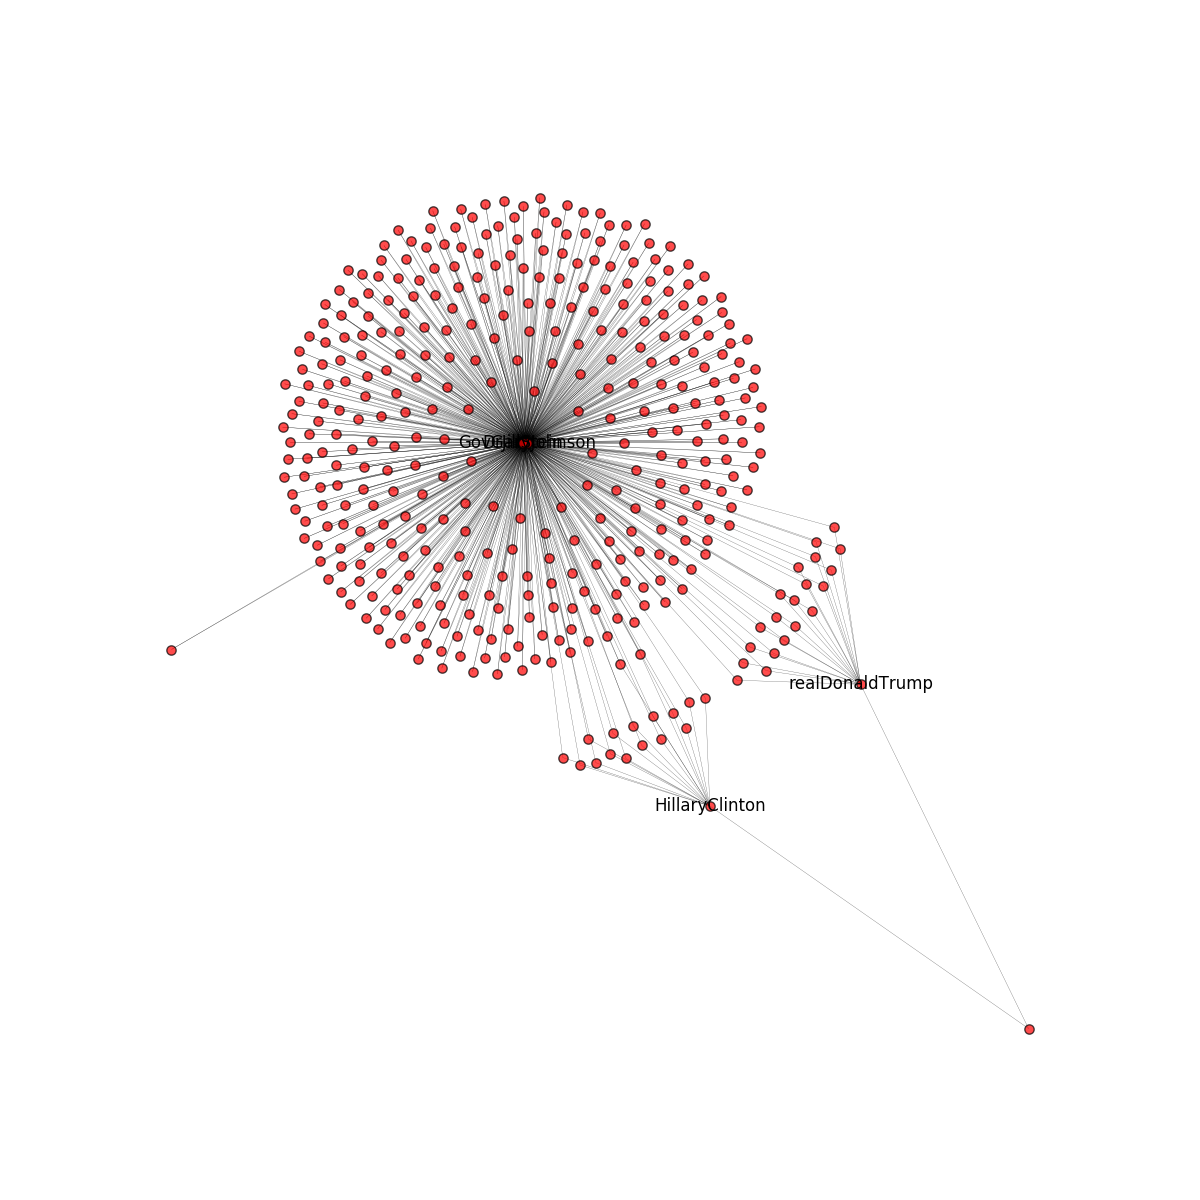
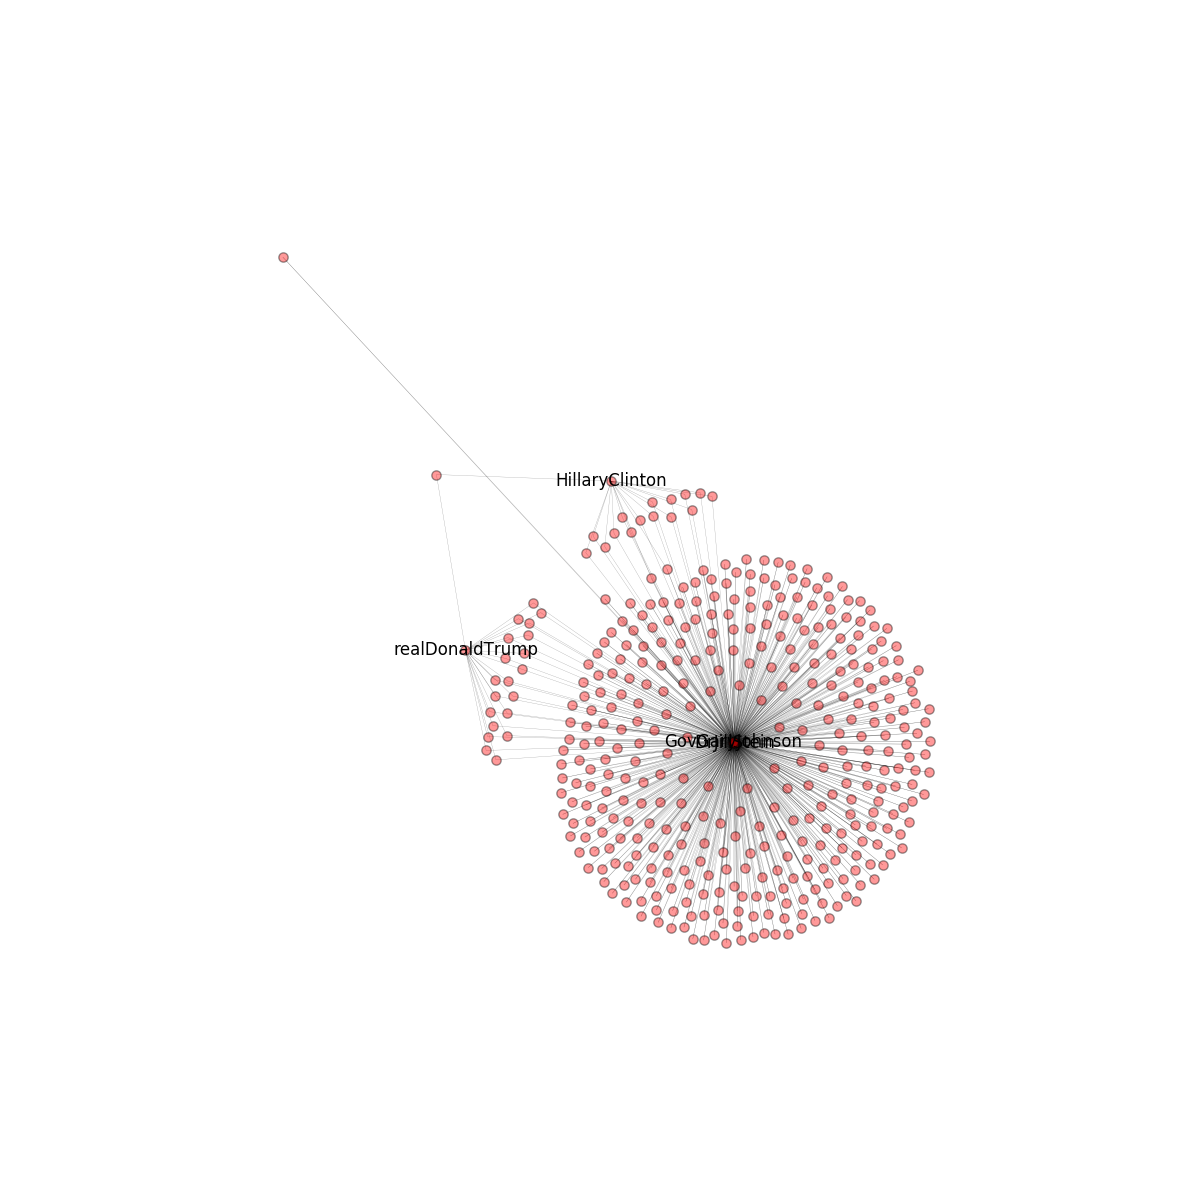
Committed Code

Changed region(s): [[0.2158, 0.1542, 0.8017, 0.8017], [0.8325, 0.8325, 0.8633, 0.8633]]

diff --git a/a0/a0.py b/a0/a0.py
@@ -40,10 +40,11 @@ import configparser
 from TwitterAPI import TwitterAPI
 
 
-consumer_key = ''
-consumer_secret = ''
-access_token = ''
-access_token_secret = ''
+consumer_key = 'BB5Ze129wF8voy9UzQ8ipzCS8'
+consumer_secret = 'BZUq9z7n4pyvjBVvdg9wHWNHZ9b2VTLWNgTvP3DrgJDS5D24iU'
+access_token = '1369262468-0tdd8G1DBN22ivUDCMJNKbVUXjNxmlpaCQ5PyCv'
+access_token_secret='AdiHB3g9IqEynclYq2of1gAxHB73H8bSblrnTWqlf5gV3'
+
 
 
 # This method is done for you. Make sure to put your credentials in the file twitter.cfg.
@@ -51,14 +52,8 @@ def get_twitter():
     """ Construct an instance of TwitterAPI using the tokens you entered above.
     Returns:
       An instance of TwitterAPI.
-    ""
-    TwitterAPI=Twitter(
-        auth=OAuth(access_token, access_token_secret, consumer_key,consumer_secret )
-        )"""
-    config = configparser.ConfigParser()
-    config.read("twitter.cfg")
-    twitterapi = TwitterAPI( config.get('twitter', 'consumer_key'),  config.get('twitter', 'consumer_secret'), 
-                          config.get('twitter', 'access_token'),  config.get('twitter', 'access_token_secret')) 
+    """
+    twitterapi = TwitterAPI( consumer_key,  consumer_secret, access_token,access_token_secret)
 
     return twitterapi;
 
@@ -163,16 +158,14 @@ def get_friends(twitter, screen_name):
     params={'screen_name':screen_name,'count':5000}
     request= robust_request(twitter,'friends/ids',params)
     response_data = request.json()
-    return response_data['ids']
+    list=response_data['ids']
+    return sorted(list)
     ###TODO
     pass
 
 
 def add_all_friends(twitter, users):
-    i=0
-    for u in users:
-       users[i]['friends']= get_friends(twitter,u['screen_name'])
-       i=i+1
+   
      
     """ Get the list of accounts each user follows.
     I.e., call the get_friends method for all 4 candidates.
@@ -191,6 +184,10 @@ def add_all_friends(twitter, users):
     >>> users[0]['friends'][:5]
     [695023, 1697081, 8381682, 10204352, 11669522]
     """
+    i=0
+    for u in users:
+       users[i]['friends']= get_friends(twitter,u['screen_name'])
+       i=i+1
     ###TODO
     pass
 
@@ -221,7 +218,7 @@ def count_friends(users):
         Counter documentation: https://docs.python.org/dev/library/collections.html#collections.Counter
 
     In this example, friend '2' is followed by three different users.
-    >>> c = count_friends([{'friends1': [1,2]}, {'friends2': [2,3]}, {'friends3': [2,3]}])
+    >>> c = count_friends([{'friends': [1,2]}, {'friends': [2,3]}, {'friends': [2,3]}])
     >>> c.most_common()
     [(2, 3), (3, 2), (1, 1)]
     
@@ -263,17 +260,18 @@ def friend_overlap(users):
     total=0
     for use in users:
         list1=use['friends']
-       
-        for j in range (i,4):
-            
-            list2=users[j]['friends']
-            totallist=(set(list1).intersection(set(list2)))
-            tuple=[use['screen_name'],users[j]['screen_name'],totallist.__len__()]
-            list3.append(tuple)
+        j=1
+        for user in users:
+            if(j>i):
+                list2=user['friends']
+                totallist=(set(list1).intersection(set(list2)))
+                tuple=(use['screen_name'],user['screen_name'],totallist.__len__())
+                list3.append(tuple)
+            j=j+1
         i=i+1
     ###TODO
-    sorted(list3,  key=lambda x: (x[2], x[0]),reverse = True)
-    return sorted(list3,  key=lambda x: (x[2], x[0]),reverse = True)
+    list3=sorted(list3,  key=lambda x: ( x[0],x[1]))
+    return sorted(list3,  key=lambda x: (x[2]),reverse = True)
     pass
 
 
@@ -298,26 +296,13 @@ def followed_by_hillary_and_donald(users, twitter):
     params={'user_id':common_friend}
     request= robust_request(twitter,'users/lookup',params)
     response_data=request.json()
-    return response_data[0]['name'];
+    return response_data[0]['screen_name'];
     ###TODO
     pass
 
 
 def create_graph(users, friend_counts):
-    G=nx.Graph()
-   
-    i=1
-    total=0
-    list3=[]
-    for use in users:
-        list1=use['friends']
-        G.add_node(use['screen_name'])
-        for friend in list1:
-            if friend_counts[friend]>1:                
-                G.add_node(friend)
-                G.add_edge(use['screen_name'], friend)
-              
-           
+                   
        
     
     """ Create a networkx undirected Graph, adding each candidate and friend
@@ -335,12 +320,34 @@ def create_graph(users, friend_counts):
       A networkx Graph
   
     """
+    G=nx.Graph()
+   
+    i=1
+    total=0
+    list3=[]
+    for use in users:
+        list1=use['friends']
+        G.add_node(use['screen_name'])
+        for friend in list1:
+            if friend_counts[friend]>1:                
+                G.add_node(friend)
+                G.add_edge(use['screen_name'], friend)
     return G
     ###TODO
     pass
 
 
 def draw_network(graph, users, filename):
+
+    """
+    Draw the network to a file. Only label the candidate nodes; the friend
+    nodes should have no labels (to reduce clutter).
+
+    Methods you'll need include networkx.draw_networkx, plt.figure, and plt.savefig.
+
+    Your figure does not have to look exactly the same as mine, but try to
+    make it look presentable.
+    """
     labeldict = {}
     for use in users:
         labeldict[use['screen_name']] = use['screen_name']
@@ -352,15 +359,6 @@ def draw_network(graph, users, filename):
     
     plt.savefig(filename)
     plt.show()
-    """
-    Draw the network to a file. Only label the candidate nodes; the friend
-    nodes should have no labels (to reduce clutter).
-
-    Methods you'll need include networkx.draw_networkx, plt.figure, and plt.savefig.
-
-    Your figure does not have to look exactly the same as mine, but try to
-    make it look presentable.
-    """
     ###TODO
     pass
 
